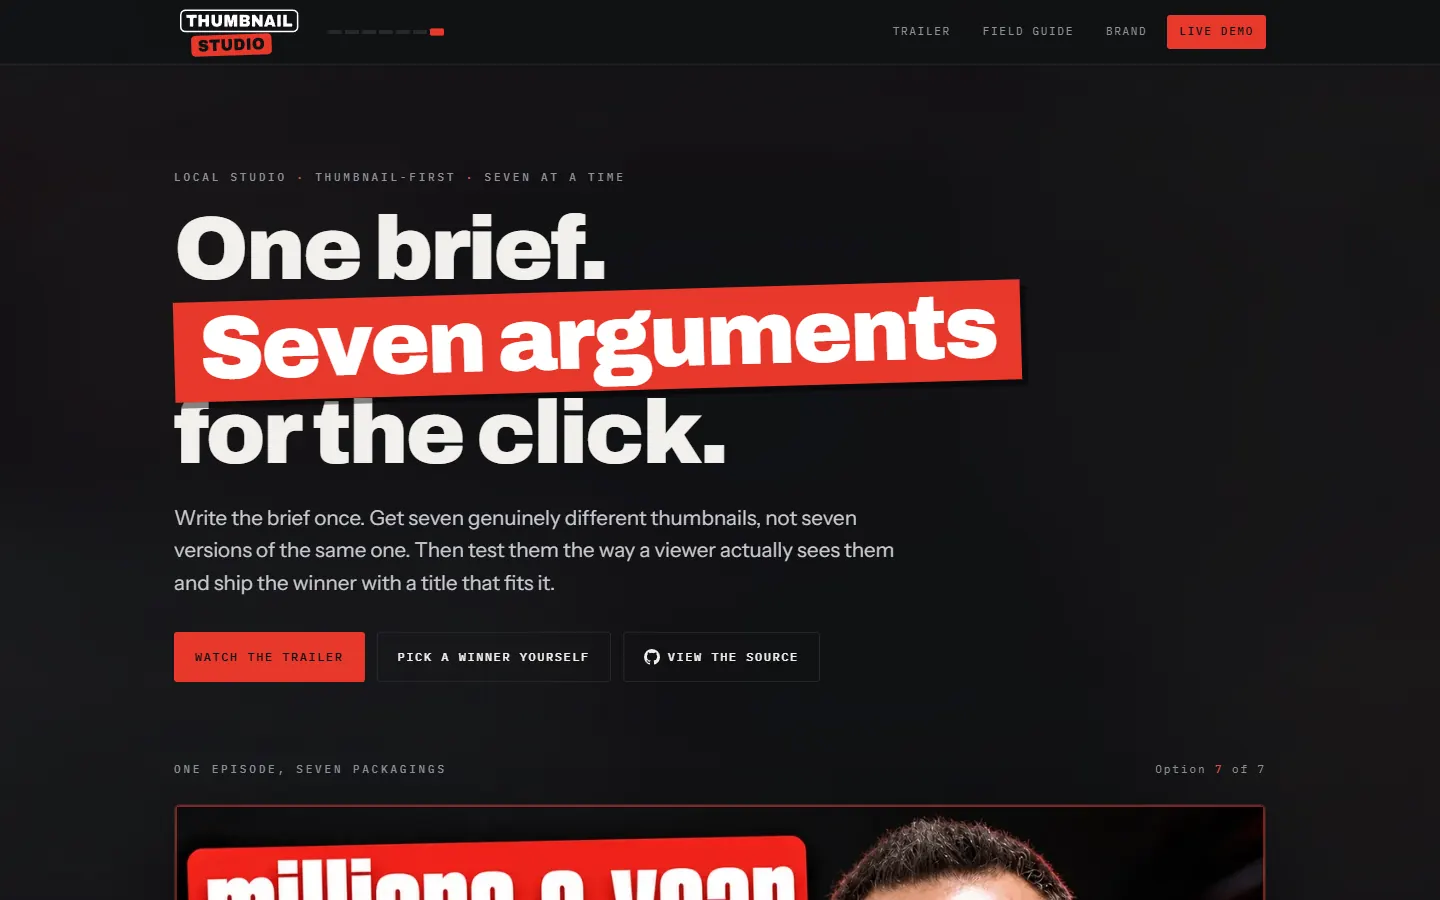
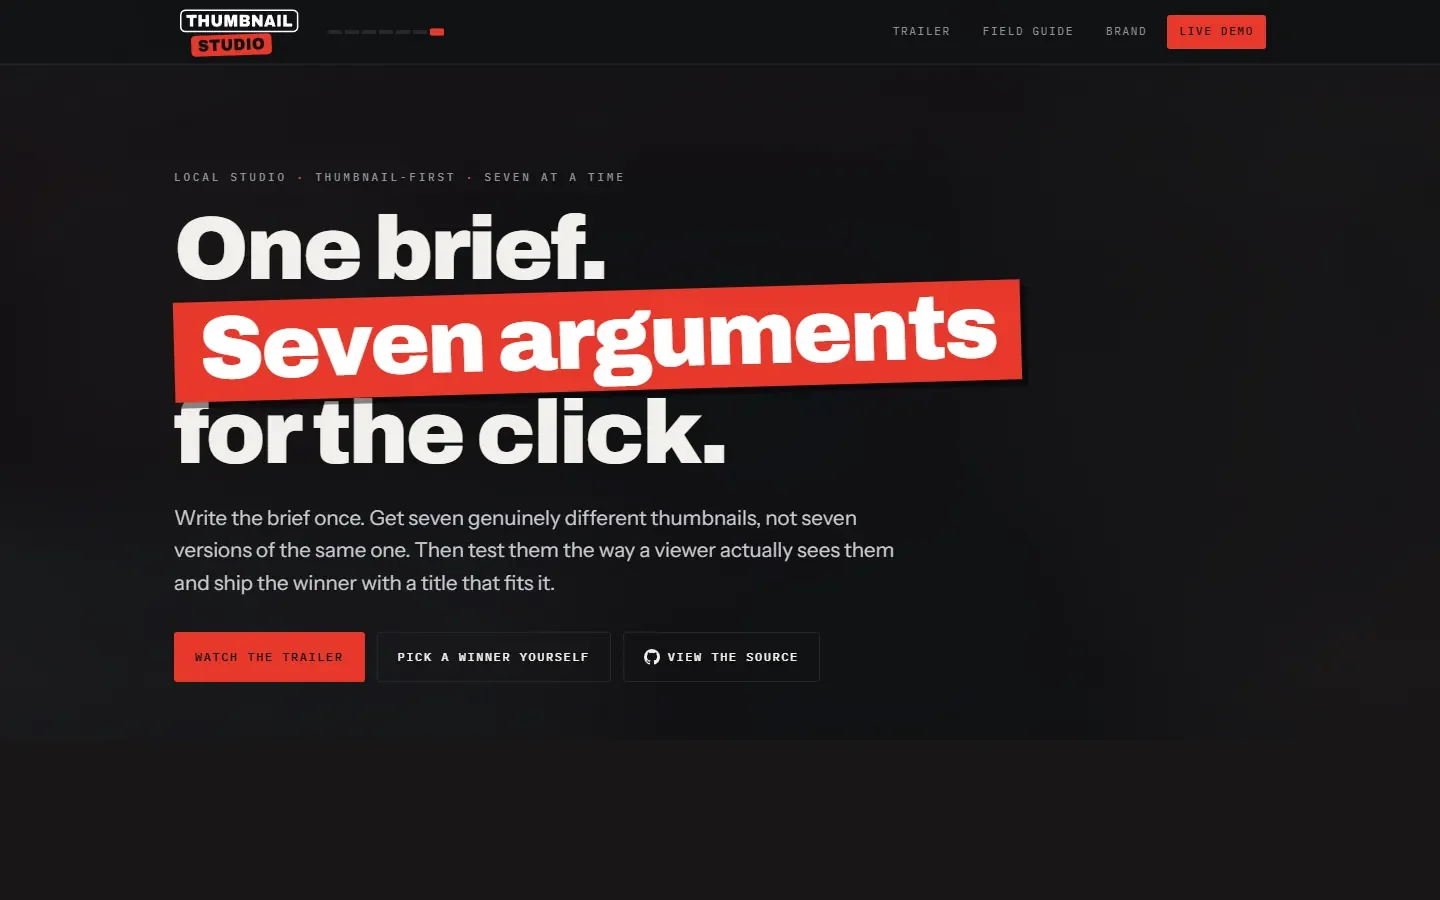
R23 Scrollwork: cut the Thumbnail Studio captures off below the headline so no thumbnail artwork ships

Changed region(s): [[0.125, 0.84, 0.875, 1.0]]

diff --git a/recipes/r23-scrollwork/CONCEPT.md b/recipes/r23-scrollwork/CONCEPT.md
@@ -19,5 +19,6 @@ drawn as a double spiral wound on a rod: a scroll on its spindle, and a scroll b
 lockup is the flat logo, with no shading.
 
 **What the open source leaves out:** three of the thirteen site captures (a client's site, a page of client logos and
-a page of third-party posters) are replaced by plain placeholder plates under the same filenames. Everything else
-ships, and the captures and the logo are not licensed.
+a page of third-party posters) are replaced by plain placeholder plates under the same filenames, and the Thumbnail
+Studio capture is cut off below its headline, so no thumbnail artwork ships.
+Everything else ships, and the captures and the logo are not licensed.

diff --git a/recipes/r23-scrollwork/README.md b/recipes/r23-scrollwork/README.md
@@ -48,5 +48,5 @@ Needs Node 22+ and Chrome or Edge.
 - GSAP (`assets/vendor/gsap.min.js`): GSAP Standard License, free (gsap.com/standard-license).
 - Fraunces and IBM Plex Mono: SIL Open Font License 1.1 (`assets/fonts/OFL-*.txt`).
 - **Not licensed:** the Scrollwork logo (`assets/brand/`), the site captures in `assets/sites/` (included only so the
-  film runs; three are plain placeholders), and the names Scrollwork and João Queirós. Use your own logo and work in a
-  remix.
+  film runs; three are plain placeholders and the Thumbnail Studio pair is cut off below its headline), and the names
+  Scrollwork and João Queirós. Use your own logo and work in a remix.
